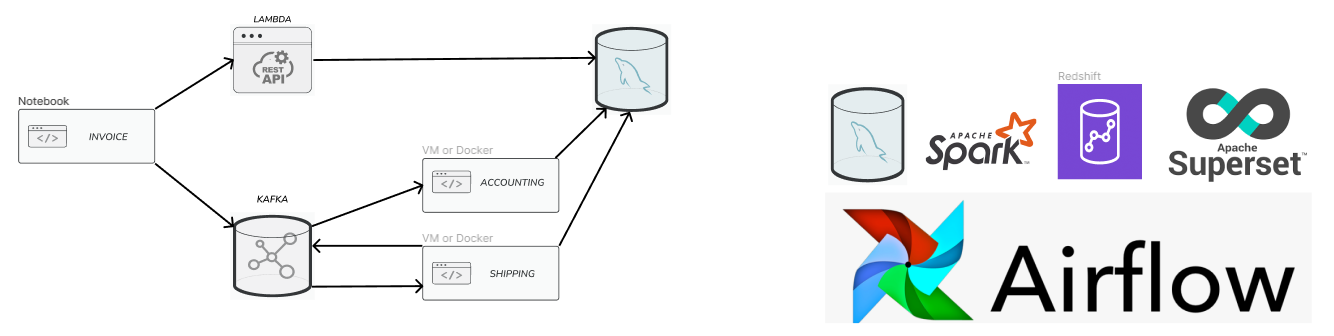
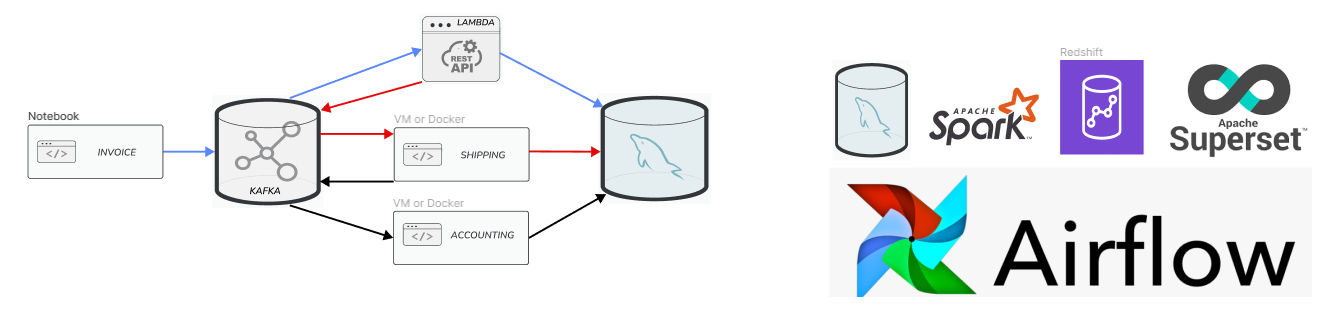
diagram image

diff --git a/README.md b/README.md
@@ -23,7 +23,7 @@ Oaken Spirits is an alcohol distributor that gets its name from its popular priv
 
 ### Scenario
 
-Oaken Spirit management does not want to spend money on more modern, but expensive, applications. You have been directed to work with the vendors to find a solution. The applications store data locally and do not integrate with external databases. Working with the vendors we can get a JSON message from each application.
+Oaken Spirit management does not want to spend money on more modern, but expensive, applications. You have been directed to work with the vendors to find a solution. The sales application stores data locally and does not integrate with external databases. Working with the vendors we can get a JSON message from each application. The shipping and accounting applications can integrate with an external database.
 
 ### Concern
 
